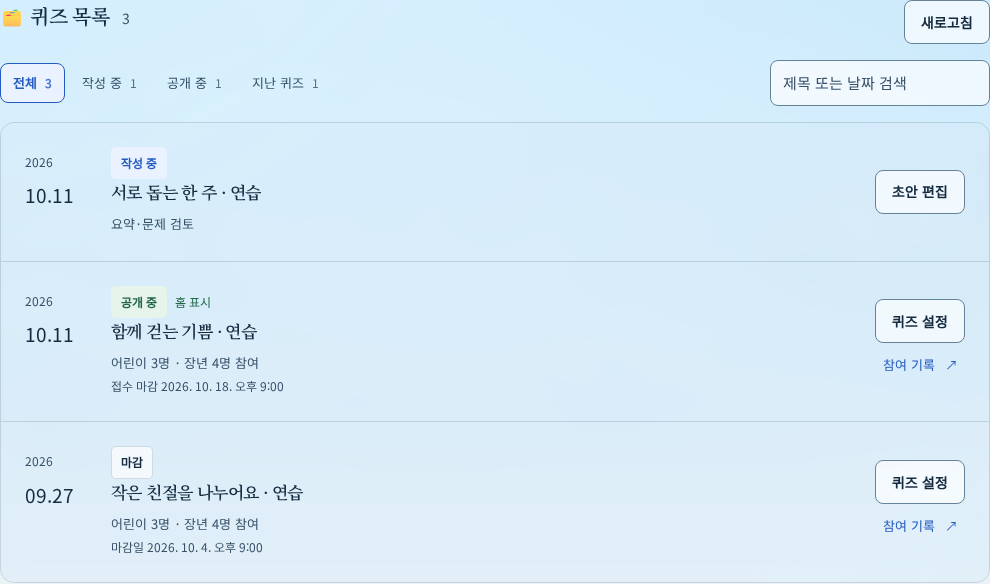
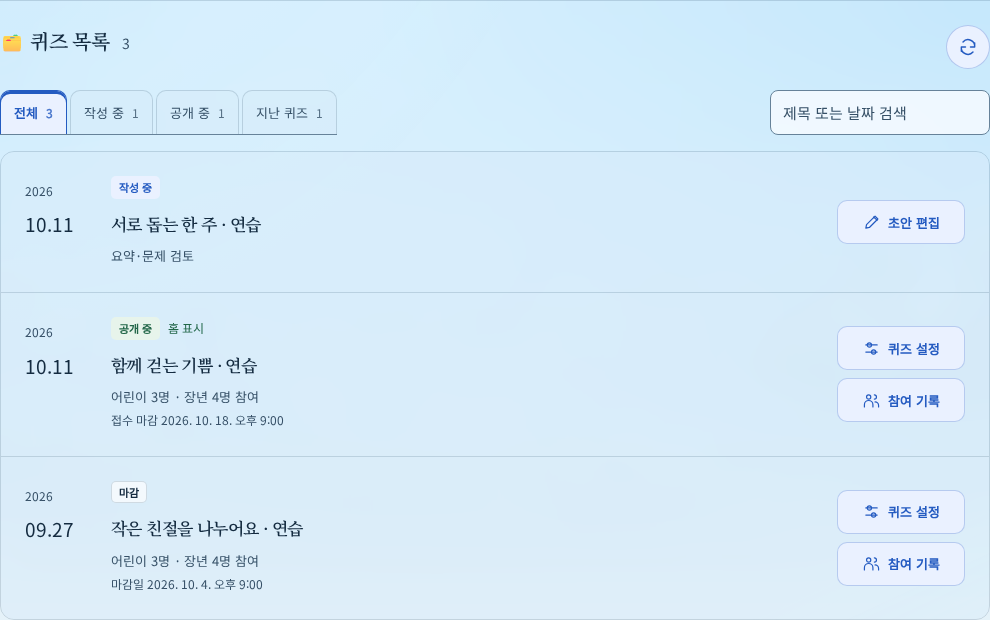
Polish admin quiz list and guide layout

diff --git a/src/features/admin-weekly/dashboard.module.css b/src/features/admin-weekly/dashboard.module.css
@@ -1,4 +1,4 @@
-.page { display: grid; gap: 28px; min-width: 0; }
+.page { display: grid; gap: 20px; min-width: 0; }
 .header, .sectionHeading { display: flex; align-items: center; justify-content: space-between; gap: 16px; }
 .header h2 { margin: 0 0 8px; }
 .header p, .featured p { margin: 0; color: var(--muted); }
@@ -35,7 +35,7 @@
 .date span { color: var(--muted); font-size: 12px; }
 .date strong { font-size: 19px; font-weight: 500; }
 .quizCopy { min-width: 0; }
-.quizCopy h4 { margin: 8px 0; }
+.quizCopy .badges + h4 { margin: 12px 0 8px !important; }
 .quizCopy p { margin: 0; font-size: 13px; color: var(--muted); }
 .quizCopy p + p { margin-top: 4px; }
 .badges { display: flex; flex-wrap: wrap; align-items: center; gap: 8px; }
@@ -43,8 +43,7 @@
 .status[data-state=published] { color: var(--accent); border-color: color-mix(in srgb,var(--accent) 35%,transparent); }
 .status[data-state=needs_revision] { color: var(--warning); }
 .homeBadge { color: var(--muted); font-size: 11px; }
-.rowActions { display: grid; justify-items: stretch; gap: 4px; }
-.textAction { display: inline-flex; align-items: center; justify-content: center; min-height: 36px; gap: 10px; color: var(--accent); font-size: 13px; text-underline-offset: 4px; }
+.rowActions { display: grid; justify-items: stretch; gap: 8px; }
 .empty { padding: 48px 20px; border: 1px dashed var(--control-border); border-radius: 14px; text-align: center; }
 .empty h4 { margin: 0 0 12px; }
 .empty p { color: var(--muted); margin-bottom: 20px; }
@@ -86,7 +85,7 @@
 .overview > :is(button,a):hover { box-shadow: inset 0 -3px currentColor; }
 .overview strong { font-size: 30px; }
 .homeMark { color: var(--ui-success); background: var(--ui-success-bg); border-color: transparent; }
-.status { font-size: 12px; font-weight: 600; padding: 4px 9px; }
+.status { font-size: 11px; line-height: 1.5; font-weight: 600; padding: 2px 7px; }
 .status[data-tone=success] { color: var(--ui-success); background: var(--ui-success-bg); border-color: transparent; }
 .status[data-tone=action] { color: var(--ui-action); background: var(--ui-action-bg); border-color: transparent; }
 .status[data-tone=attention] { color: var(--ui-attention); background: var(--ui-attention-bg); border-color: transparent; }
@@ -97,3 +96,21 @@
 .cleanup { padding-inline: 16px; border: 1px solid var(--ui-attention); border-radius: 10px; background: var(--ui-attention-bg); }
 .footer > a:first-child { color: var(--ui-guide); }
 @media (forced-colors: active) { .overview > :is(button,a), .status, .homeBadge, .homeMark { color: CanvasText; background: Canvas; } .filters button[aria-pressed=true] { color: Highlight; border-color: Highlight; } }
+
+/* Keep optional guidance together instead of stacking its margins with page gaps. */
+.quickHelp { display: grid; gap: 0; margin-block: -10px -8px; }
+.quickHelp > div { margin: 0; }
+.library { border-top: 1px solid var(--line); padding-top: 24px; }
+.caption { display: inline-flex; align-items: center; color: var(--ui-success); font-weight: 700; letter-spacing: .04em; }
+.page .library .sectionHeading .refresh:global(.action-button) { display: grid; place-items: center; width: 44px; height: 44px; min-width: 44px; padding: 0; border-radius: 50%; color: var(--ui-action); background: var(--ui-action-bg); border-color: color-mix(in srgb,var(--ui-action) 28%,transparent); }
+.page .library .rowActions .rowButton:global(.action-button) { min-width: 128px; border-radius: 10px; color: var(--ui-action); background: var(--ui-action-bg); border-color: color-mix(in srgb,var(--ui-action) 26%,transparent); font-size: 13px; transition: background-color .18s, border-color .18s; }
+.page .library .rowActions .rowButton:global(.action-button):is(:hover,:focus-visible), .page .library .sectionHeading .refresh:global(.action-button):is(:hover,:focus-visible) { background: color-mix(in srgb,var(--ui-action) 12%,var(--ui-action-bg)); border-color: var(--ui-action); }
+.rowButton svg { width: 17px; height: 17px; }
+.toolbar { align-items: end; gap: 16px; }
+.filters { gap: 3px; padding-top: 5px; border-bottom: 1px solid var(--control-border); }
+.filters button { position: relative; min-height: 44px; padding: 10px 13px 9px; border: 1px solid var(--line); border-bottom: 0; border-radius: 10px 10px 0 0; background: var(--glass-soft); transition: transform .18s ease-out, background-color .18s, border-color .18s; }
+.filters button:is(:hover,:focus-visible) { transform: translateY(-4px); background: var(--ui-action-bg); border-color: var(--ui-action); color: var(--ui-action); box-shadow: 0 4px 0 var(--ui-action-bg); }
+.filters button[aria-pressed=true] { background: var(--ui-action-bg); border-color: var(--ui-action); box-shadow: inset 0 3px var(--ui-action); }
+@media(max-width:760px) { .filters { width: 100%; display: grid; grid-template-columns: repeat(4,minmax(0,1fr)); gap: 2px; } .filters button { justify-content: center; gap: 4px; padding-inline: 3px; font-size: 12px; } .rowActions { gap: 8px; } }
+@media(prefers-reduced-motion:reduce) { .filters button, .page .library .rowActions .rowButton:global(.action-button) { transition: none; } .filters button:is(:hover,:focus-visible) { transform: none; } }
+@media(forced-colors:active) { .page .library .rowActions .rowButton:global(.action-button), .page .library .sectionHeading .refresh:global(.action-button) { color: ButtonText; border-color: ButtonText; background: ButtonFace; } .filters button[aria-pressed=true] { border-color: Highlight; outline: 2px solid Highlight; outline-offset: -2px; } }

diff --git a/tests/e2e/admin-glass.spec.ts b/tests/e2e/admin-glass.spec.ts
@@ -3,7 +3,7 @@ import { expect, test } from "@playwright/test";
 import { publicResponse } from "../fixtures/public-response";
 
 const at = "2026-10-10T00:00:00.000Z";
-test("admin menus group tasks, retain the glass hover and use compact shared actions", async ({ page, isMobile }, info) => {
+test("admin menus group tasks, use a flat moving highlight and use compact shared actions", async ({ page, isMobile }, info) => {
   test.setTimeout(60_000);
   const requests: string[] = [];
   await page.route("**/api/admin/**", route => {
@@ -20,17 +20,15 @@ test("admin menus group tasks, retain the glass hover and use compact shared act
   const solution = page.getByRole("button", { name: "정답보기", exact: true });
   await expect(solution).toHaveAttribute("aria-disabled", "false");
   await page.getByRole("button", { name: "낮", exact: true }).click();
-  const material = await solution.evaluate(node => {
-    const style = getComputedStyle(node);
-    return Object.fromEntries(["background-color", "color", "border-color", "border-radius", "box-shadow", "backdrop-filter"].map(name => [name, style.getPropertyValue(name)]));
-  });
   await page.goto("/admin");
   const refresh = page.getByRole("button", { name: "운영 상태 새로고침", exact: true });
   await expect(refresh).toBeEnabled();
   const before = requests.filter(path => path.endsWith("/dashboard")).length;
   await refresh.click();
   await expect.poll(() => requests.filter(path => path.endsWith("/dashboard")).length).toBeGreaterThan(before);
-  for (const [name, value] of Object.entries(material)) await expect(refresh).toHaveCSS(name, value);
+  await expect(refresh).toHaveCSS("border-radius", "50%");
+  await expect(refresh.locator("svg")).toHaveCount(1);
+  await expect(refresh).toHaveText("");
   await expect(refresh).toHaveCSS("min-height", "44px");
   expect(await refresh.evaluate(node => getComputedStyle(node, "::before").content)).toBe("none");
   await expect(refresh).not.toHaveAttribute("data-lens-ready");
@@ -57,23 +55,22 @@ test("admin menus group tasks, retain the glass hover and use compact shared act
   await expect(navigation.getByRole("link")).toHaveCount(7);
   if (!isMobile) {
     const target=navigation.getByRole("link",{name:"이름·문구 필터",exact:true});
-    // Opening the disclosure remounts GlassMenu; its ResizeObserver/font pass
-    // measures on the next frame and clears previews. Hover after that pass.
-    await expect(target.locator("..")).toHaveAttribute("data-selection-ready", "true");
-    await page.evaluate(async () => {
-      await document.fonts.ready;
-      await new Promise<void>(resolve => requestAnimationFrame(() => requestAnimationFrame(() => resolve())));
-    });
     const current = navigation.getByRole("link", {name:"퀴즈 관리",exact:true});
-    const selection = await current.evaluate(node => ({color:getComputedStyle(node).color, background:getComputedStyle(node).backgroundColor}));
+    const highlight = navigation.locator(':scope > span[aria-hidden="true"]');
+    await expect(highlight).toBeVisible();
     await target.hover();
-    // Hover previews must not erase the actual current page's semantic highlight.
-    await expect(current).toHaveCSS("color", selection.color);
-    await expect(current).toHaveCSS("background-color", selection.background);
-    expect(await current.evaluate(node => getComputedStyle(node, "::before").width)).toBe("3px");
-    await expect(target).toHaveAttribute("data-dock-preview", "");
-    await expect(target).toHaveCSS("background-color", "rgba(0, 0, 0, 0)");
-    await expect(target.locator("..").locator(":scope > .glass-indicator")).toHaveCount(1);
+    await expect(current).toHaveAttribute("aria-current", "page");
+    await expect(navigation.locator('.glass-indicator, [data-glass-convex]')).toHaveCount(0);
+    await expect(highlight).toHaveCSS("border-left-width", "3px");
+    await expect.poll(async () => {
+      const a = await target.boundingBox(), b = await highlight.boundingBox();
+      return a && b ? Math.abs(a.y - b.y) : 999;
+    }).toBeLessThan(1);
+    await page.locator('.admin-main h2').hover();
+    await expect.poll(async () => {
+      const a = await current.boundingBox(), b = await highlight.boundingBox();
+      return a && b ? Math.abs(a.y - b.y) : 999;
+    }).toBeLessThan(1);
   }
   await sidebar.screenshot({path:info.outputPath("sidebar-grouped.png")});
   const filterLink=navigation.getByRole("link",{name:"이름·문구 필터",exact:true});

diff --git a/src/features/admin-weekly/AdminNavigation.tsx b/src/features/admin-weekly/AdminNavigation.tsx
@@ -1,8 +1,7 @@
-import { useEffect, useState } from "react";
+import { useEffect, useLayoutEffect, useRef, useState } from "react";
 import { Link, useLocation } from "react-router-dom";
 import type { AdminTone } from "../../config/admin-help";
 import { AdminIcon, type AdminIconName } from "../../components/AdminIcon";
-import { GlassMenu } from "../../components/glass/GlassMenu";
 import { GlassPanel } from "../../components/glass/GlassPanel";
 import styles from "./admin-navigation.module.css";
 
@@ -20,6 +19,16 @@ const secondary = [
 
 export function AdminNavigation() {
   const { pathname } = useLocation();
+  const navigation = useRef<HTMLElement>(null);
+  const [highlight, setHighlight] = useState<{x:number; y:number; width:number; height:number} | null>(null);
+  function showHighlight(link: HTMLElement | null) {
+    const nav = navigation.current;
+    if (!nav || !link) { setHighlight(null); return; }
+    const parent = nav.getBoundingClientRect(), box = link.getBoundingClientRect();
+    setHighlight({x:box.left-parent.left, y:box.top-parent.top, width:box.width, height:box.height});
+  }
+  function restoreHighlight() { showHighlight(navigation.current?.querySelector<HTMLElement>('a[aria-current="page"]') ?? null); }
+
   const [wide, setWide] = useState(() => window.matchMedia("(min-width: 1024px)").matches);
   const [expanded, setExpanded] = useState(false);
   const settingsActive = secondary.some(item => pathname.startsWith(item.to));
@@ -31,6 +40,19 @@ export function AdminNavigation() {
     media.addEventListener("change", update);
     return () => media.removeEventListener("change", update);
   }, []);
+  useLayoutEffect(() => {
+    const nav = navigation.current;
+    if (!nav) return;
+    const update = () => {
+      const activeLink = nav.querySelector<HTMLElement>('a[aria-current="page"]');
+      if (!activeLink || !activeLink.getClientRects().length) { setHighlight(null); return; }
+      const parent = nav.getBoundingClientRect(), box = activeLink.getBoundingClientRect();
+      setHighlight({x:box.left-parent.left,y:box.top-parent.top,width:box.width,height:box.height});
+    };
+    update();
+    const observer = new ResizeObserver(update); observer.observe(nav);
+    return () => observer.disconnect();
+  }, [pathname, settingsOpen, wide, expanded]);
   const active = (to: string) => to === "/admin"
     ? pathname === to || pathname === "/admin/new" || pathname.startsWith("/admin/quiz/")
     : pathname.startsWith(to);
@@ -44,12 +66,17 @@ export function AdminNavigation() {
     <h2 className={styles.title}><span>관리 공간</span></h2>
     <details className={styles.menu} open={wide || expanded}>
       <summary onClick={event => { event.preventDefault(); setExpanded(!expanded); }}>관리자 운영 메뉴 <AdminIcon name="chevron"/></summary>
-      <nav aria-label="관리자 운영 메뉴">
+      <nav ref={navigation} aria-label="관리자 운영 메뉴"
+        onPointerOver={event => { if (event.pointerType !== "touch") { const link = (event.target as HTMLElement).closest('a'); if (link) showHighlight(link); } }}
+        onPointerLeave={restoreHighlight}
+        onFocus={event => { const link = (event.target as HTMLElement).closest('a'); if (link) showHighlight(link); }}
+        onBlur={event => { if (!event.currentTarget.contains(event.relatedTarget as Node | null)) restoreHighlight(); }}>
+        {highlight && <span className={styles.highlight} aria-hidden="true" style={{transform:`translate(${highlight.x}px, ${highlight.y}px)`,width:highlight.width,height:highlight.height}}/>}
         <h3 className={styles.groupTitle}>퀴즈 운영</h3>
-        <GlassMenu clear={false} data-glass-hover-only={primary.some(item => active(item.to)) ? undefined : ""} structure={pathname} className={styles.nav}>{links(primary)}</GlassMenu>
+        <div className={styles.nav}>{links(primary)}</div>
         <details className={styles.settings} open={settingsOpen} onToggle={event => setSettings({path: pathname, open: event.currentTarget.open})}>
           <summary>도구와 설정 <AdminIcon name="chevron"/></summary>
-          <GlassMenu clear={false} data-glass-hover-only={settingsActive ? undefined : ""} structure={`${pathname}:${settingsOpen}`} className={styles.nav}>{links(secondary)}</GlassMenu>
+          <div className={styles.nav}>{links(secondary)}</div>
         </details>
       </nav>
     </details>

diff --git a/src/features/admin-weekly/Dashboard.tsx b/src/features/admin-weekly/Dashboard.tsx
@@ -1,4 +1,5 @@
 import { AdminConcepts, AdminEmoji, AdminLabel } from "../../components/AdminHelp";
+import { AdminIcon } from "../../components/AdminIcon";
 import { AdminScreenshots } from "../../components/AdminScreenshots";
 import { useEffect, useState } from "react";
 import { Link } from "react-router-dom";
@@ -51,8 +52,8 @@ export function Component() {
       <div><h2><AdminLabel text="퀴즈 관리"/></h2><p>퀴즈를 준비하고, 공개와 참여를 관리하세요.</p></div>
       <ButtonLink variant="primary" to="/admin/new">퀴즈 준비 <span aria-hidden="true">＋</span></ButtonLink>
     </header>
-    <AdminConcepts terms={["초안", "발행", "자동 선택", "대표 지정"]}/>
-    <AdminScreenshots ids={["dashboard"]} compact/>
+    <div className={styles.quickHelp}><AdminConcepts terms={["초안", "발행", "자동 선택", "대표 지정"]}/>
+    <AdminScreenshots ids={["dashboard"]} compact/></div>
     {message && <p className={styles.alert} role="alert">{message}</p>}
     <div className={styles.overview} aria-label="운영 요약">
       <button type="button" onClick={() => setFilter("published")}><span><AdminEmoji>📣</AdminEmoji>공개 중</span><strong>{data ? published.length : "—"}</strong><span aria-hidden="true">↗</span></button>
@@ -61,7 +62,7 @@ export function Component() {
     </div>
     {data && <section className={styles.featured} aria-labelledby="home-quiz-heading">
       <div className={styles.homeMark} aria-hidden="true">⌂</div>
-      <div className={styles.featuredCopy}><span className={styles.caption}>지금 홈에 보이는 퀴즈</span>
+      <div className={styles.featuredCopy}><span className={styles.caption}><AdminEmoji>📡</AdminEmoji>Live</span>
         <h3 id="home-quiz-heading">{featured?.title ?? "아직 공개된 퀴즈가 없습니다"}</h3>
         <p>{featured ? `${date(featured.sermonDate)} · ${featured.status === "archived" ? "지난 퀴즈" : "공개 중"}${data.homeQuiz?.selection === "automatic" ? " · 자동 선택" : " · 대표 지정"}` : "준비한 퀴즈를 발행하면 이곳에 표시됩니다."}</p>
       </div>
@@ -69,7 +70,7 @@ export function Component() {
     </section>}
     <section className={styles.library} aria-labelledby="quiz-library-heading" aria-busy={loading}>
       <div className={styles.sectionHeading}><h3 id="quiz-library-heading"><AdminLabel text="퀴즈 목록"/> <span>{items.length}</span></h3>
-        <Button type="button" disabled={loading} onClick={() => { setMessage(""); setLoading(true); setAttempt(v => v + 1); }} aria-label="운영 상태 새로고침">{loading ? "불러오는 중" : "새로고침"}</Button>
+        <Button type="button" disabled={loading} onClick={() => { setMessage(""); setLoading(true); setAttempt(v => v + 1); }} className={styles.refresh} aria-label="운영 상태 새로고침" title="퀴즈 목록 새로고침"><AdminIcon name="refresh"/></Button>
       </div>
       <div className={styles.toolbar}>
         <div className={styles.filters} role="group" aria-label="퀴즈 상태">
@@ -87,8 +88,8 @@ export function Component() {
               {!isDraft(q) && q.closesAt && <p className={styles.deadline}>{q.status === "archived" ? "마감일" : "접수 마감"} {time(q.closesAt)}{q.status === "published" && Date.parse(q.closesAt) <= checkedAt ? " · 마감 처리 대기" : ""}</p>}
             </div>
             <div className={styles.rowActions}>
-              {!q.expired && <ButtonLink to={`/admin/quiz/${q.quizSetId}`}>{isDraft(q) ? "초안 편집" : "퀴즈 설정"}</ButtonLink>}
-              {!isDraft(q) && <Link className={styles.textAction} to={`/admin/submissions?quiz=${q.quizSetId}`}>참여 기록 <span aria-hidden="true">↗</span></Link>}
+              {!q.expired && <ButtonLink className={styles.rowButton} to={`/admin/quiz/${q.quizSetId}`}><AdminIcon name={isDraft(q) ? "edit" : "settings"}/>{isDraft(q) ? "초안 편집" : "퀴즈 설정"}</ButtonLink>}
+              {!isDraft(q) && <ButtonLink className={styles.rowButton} to={`/admin/submissions?quiz=${q.quizSetId}`}><AdminIcon name="people"/>참여 기록</ButtonLink>}
             </div>
           </article>
         </li>)}</ul>}

diff --git a/src/features/admin-weekly/admin-navigation.module.css b/src/features/admin-weekly/admin-navigation.module.css
@@ -11,12 +11,13 @@
 .nav { display: grid; gap: 4px; border: 0; background: transparent; padding: 0; }
 .nav a { display: flex; align-items: center; gap: 12px; min-height: 46px; padding: 11px 13px; border: 0; border-radius: 8px; color: var(--ink); font-size: 14px; line-height: 1.5; text-decoration: none; word-break: keep-all; overflow-wrap: anywhere; }
 .nav svg { width: 20px; height: 20px; flex: 0 0 20px; }
-/* Keep the current page visible while the existing glass lens previews another link. */
-.sidebar .nav a[aria-current=page], .sidebar .nav[data-selection-ready] a[aria-current=page] { color: var(--ui-action); background: var(--ui-action-bg); font-weight: 700; }
-.nav a[aria-current=page]::before { content: ''; position: absolute; inset: 7px auto 7px 0; width: 3px; border-radius: 2px; background: var(--ui-action); }
-.sidebar .nav[data-dock-previewing] a[aria-current=page]::after { display: none; }
-.sidebar .nav:not([data-dock-previewing]) > :global(.glass-indicator) { opacity: 0; }
-.nav:not([data-dock-material=convex]) a:not([aria-current=page]):hover { background: var(--glass-soft); }
+/* A flat selection shape follows the pointer or keyboard focus without a glass lens. */
+.menu nav { position: relative; isolation: isolate; }
+.highlight { position: absolute; top: 0; left: 0; pointer-events: none; z-index: -1; border-radius: 8px; background: var(--ui-action-bg); border-left: 3px solid var(--ui-action); transition: transform .2s ease-out, width .2s ease-out, height .2s ease-out; }
+.nav a { position: relative; }
+.sidebar .nav a[aria-current=page] { color: var(--ui-action); font-weight: 700; }
+.nav a:is(:hover,:focus-visible) { color: var(--ui-action); }
+@media (prefers-reduced-motion: reduce) { .highlight { transition: none; } }
 .settings { border-top: 1px solid var(--line); margin-top: 20px; padding-top: 12px; }
 .settings > summary { color: var(--ui-action); font-size: 13px; font-weight: 700; padding: 8px 14px; margin-bottom: 6px; }
 .settings > summary svg { color: var(--muted); }
@@ -42,6 +43,6 @@
 @media (max-width: 500px) { .nav { grid-template-columns: 1fr; } .nav a { min-height: 44px; } }
 @media (forced-colors: active) {
  .sidebar .nav a[aria-current=page] { color: Highlight; background: Canvas; outline: 2px solid Highlight; outline-offset: -2px; }
- .nav a[aria-current=page]::before { background: Highlight; forced-color-adjust: none; }
+ .highlight { background: Canvas; border: 2px solid Highlight; }
  .sidebar .groupTitle, .settings > summary { color: CanvasText; }
 }

diff --git a/src/features/admin-operations/ManualReader.tsx b/src/features/admin-operations/ManualReader.tsx
@@ -1,3 +1,4 @@
+import { Link } from "react-router-dom";
 import type { AdminTone } from "../../config/admin-help";
 import { ServiceIcon } from "../../components/ServiceIcon";
 import { AdminLabel, GuideText } from "../../components/AdminHelp";
@@ -83,11 +84,12 @@ export function ManualReader({ source }: { source: string }) {
       <select value={current.id} onChange={event => choose(event.target.value)}>{groups.map(group => <optgroup key={group.title} label={group.title}>{group.items.map(item => <option key={item.id} value={item.id}>{item.title}</option>)}</optgroup>)}</select>
     </label>
     <article className={css.article} data-topic={current.id} aria-labelledby="manual-article-title">
-      <header className={css.articleHeader} data-admin-tone={topicTones[current.id] ?? "guide"}><p>{category}</p><h3 id="manual-article-title" tabIndex={-1} ref={heading}>{service && <TopicIcon id={current.id}/>}<span><AdminLabel text={section?.title ?? service?.name ?? "운영 안내"}/></span></h3>{service && <p className={css.subtitle}>{service.plainLanguageName}</p>}</header>
+      <header className={css.articleHeader} data-admin-tone={topicTones[current.id] ?? "guide"}><p>{category}</p><h3 id="manual-article-title" tabIndex={-1} ref={heading}>{service && <TopicIcon id={current.id}/>}<span><AdminLabel text={section?.title ?? service?.name ?? "운영 안내"}/></span></h3>{service && <p className={css.subtitle}><code>{service.plainLanguageName}</code></p>}</header>
       {section && <ManualBody source={section.body}/>}
+      {current.id === "guide-12" && <div className={css.futureRecord}><AdminIcon name="document" tone="action"/><div><Link to="/admin/manual/future/member-auth">기능 검토 기록</Link><p>회원 로그인 등 제안된 기능의 검토 내용을 읽어 보세요.</p></div></div>}
       {section && examples[current.id] && <AdminScreenshots key={current.id} ids={examples[current.id]!}/>}
       {service && guide && <div className={css.serviceReading}>
-        <p className={css.lead}>{guide.role}</p>
+        <aside className={css.serviceIntro} aria-label="서비스 설명"><AdminIcon name="book" tone="action"/><p className={css.lead}>{guide.role}</p></aside>
         <dl className={local.guideFacts}>
           <div data-admin-tone="action"><dt><AdminLabel text="언제 쓰나요?"/></dt><dd><GuideText text={guide.when}/></dd></div>
           <div data-admin-tone="danger"><dt><AdminLabel text="문제가 생기면?"/></dt><dd><GuideText text={guide.failure}/></dd></div>

diff --git a/tests/e2e/admin-operations.spec.ts b/tests/e2e/admin-operations.spec.ts
@@ -23,10 +23,14 @@ test('operations warning survives monthly confirmation; drawer supports keyboard
  await page.keyboard.press('Escape');await expect(dialog).not.toBeVisible();await expect(page.getByRole('button',{name:'비용·백업 상세 열기'})).toBeFocused();
 });
 test('protected manual displays service dictionary, repository text and future guide without executing HTML',async({page})=>{
- await page.route('**/api/admin/manual**',async route=>route.fulfill({json:{data:{markdown:'# 합성 매뉴얼\n\n## 10. 백업·복구\n\n<svg onload="window.__unsafe=true">원문</svg>',updatedAt:'2026-10-01',verification:'로컬 합성 검증',deployment:'local'}}}));
+ await page.route('**/api/admin/manual**',async route=>route.fulfill({json:{data:{markdown:'# 합성 매뉴얼\n\n## 10. 백업·복구\n\n<svg onload="window.__unsafe=true">원문</svg>\n\n## 12. 향후 기능\n\n기능 제안을 검토합니다.',updatedAt:'2026-10-01',verification:'로컬 합성 검증',deployment:'local'}}}));
  await page.goto('/admin/manual');await expect(page.getByRole('heading',{name:'백업·복구',exact:true})).toBeVisible();
  await expect(page.getByText('<svg onload="window.__unsafe=true">원문</svg>',{exact:true})).toBeVisible();expect(await page.evaluate(()=>Object.hasOwn(window,'__unsafe'))).toBe(false);
- await expect(page.getByRole('heading',{name:'백업·복구',exact:true})).toBeVisible();await page.getByRole('link',{name:'기능 검토 기록'}).click();await expect(page).toHaveURL(/\/admin\/manual\/future\/member-auth$/u);await expect(page.getByRole('link',{name:'운영 매뉴얼로 돌아가기'})).toBeVisible();
+ await expect(page.getByRole('link',{name:'기능 검토 기록'})).toHaveCount(0);
+ const topics=page.getByLabel('읽을 주제');
+ if(await topics.isVisible()) await topics.selectOption('guide-12');
+ else { const nav=page.getByRole('navigation',{name:'매뉴얼 주제'}); const future=nav.getByRole('button',{name:'향후 기능',exact:true}); if(!await future.isVisible()) await nav.locator('summary').filter({hasText:'설정과 자료 보호'}).click(); await future.click(); }
+ await page.getByRole('article').getByRole('link',{name:'기능 검토 기록'}).click();await expect(page).toHaveURL(/\/admin\/manual\/future\/member-auth$/u);await expect(page.getByRole('link',{name:'운영 매뉴얼로 돌아가기'})).toBeVisible();
 });
 
 test('manual formats reading cues, explains services and retries only after a failed load', async ({page}) => {

diff --git a/src/features/admin-operations/manual-reader.module.css b/src/features/admin-operations/manual-reader.module.css
@@ -70,3 +70,16 @@
 
 .serviceReading > dl > div > dt { font-size: 18px; font-weight: 700; line-height: 1.65; }
 @media (max-width: 760px) { .serviceReading > dl > div > dt { font-size: 17px; } }
+
+.serviceIntro { display: flex; gap: 12px; align-items: flex-start; padding: 16px 18px; border: 1px solid color-mix(in srgb,var(--ui-action) 30%,var(--line)); border-left: 3px solid var(--ui-action); border-radius: 8px; background: var(--ui-action-bg); }
+.serviceIntro > svg { flex: 0 0 20px; margin-top: 5px; }
+.serviceReading > dl > div { padding-block: 22px; }
+.serviceReading > dl > div + div { border-top: 1px solid var(--line); }
+.serviceReading > dl > div:first-child { padding-top: 0; }
+.serviceReading > dl > div:last-child { padding-bottom: 0; }
+.serviceReading > dl { gap: 0; }
+.futureRecord { display: flex; gap: 12px; padding-top: 22px; margin-top: 22px; border-top: 1px solid var(--line); }
+.futureRecord > svg { flex-shrink: 0; margin-top: 4px; }
+.futureRecord a { font-weight: 700; }
+.futureRecord p { color: var(--muted); font-size: 13px; margin: 6px 0 0; }
+@media (forced-colors:active) { .serviceIntro { border-color: CanvasText; background: Canvas; } }

diff --git a/src/components/admin-screenshots.module.css b/src/components/admin-screenshots.module.css
@@ -1,6 +1,7 @@
-.examples, .disclosure { margin: 22px 0; min-width: 0; }
+.examples { margin: 22px 0; min-width: 0; }
+.disclosure { margin: 0; min-width: 0; }
 .examples { padding-top: 20px; border-top: 1px solid var(--line); }
-.disclosure > summary { color: var(--ui-guide); font-size: 14px; min-height: 44px; align-content: center; }
+.disclosure > summary { color: var(--ink); font-size: 14px; min-height: 44px; align-content: center; }
 .note.note { color: var(--muted); font-size: 12px; margin: 8px 0 14px; }
 .gallery { display: grid; grid-template-columns: repeat(auto-fit, minmax(min(100%, 260px), 1fr)); gap: 24px; }
 .figure { min-width: 0; max-width: 360px; margin: 0; }

diff --git a/src/features/admin-operations/Manual.tsx b/src/features/admin-operations/Manual.tsx
@@ -38,6 +38,6 @@ function ManualPage({ future }: { future: boolean }) {
         <div><dt>접속한 서버</dt><dd>{data.deployment.includes("미연결") ? "이 화면에서는 서버 종류 또는 배포 번호를 확인할 수 없습니다. 로컬 실행에서도 이렇게 표시될 수 있으며, 서비스 장애를 뜻하지는 않습니다." : data.deployment}</dd></div>
       </dl>
     </details>}
-    {future ? <Link to="/admin/manual">운영 매뉴얼로 돌아가기</Link> : <Link to="/admin/manual/future/member-auth">기능 검토 기록</Link>}
+    {future && <Link to="/admin/manual">운영 매뉴얼로 돌아가기</Link>}
   </div>;
 }

diff --git a/src/components/AdminIcon.tsx b/src/components/AdminIcon.tsx
@@ -3,6 +3,8 @@ import type { AdminTone } from "../config/admin-help";
 
 // Shared line icons extend the existing admin navigation's stroke and proportions.
 const shapes = {
+  refresh: <path d="M20 7v5h-5 M4 17v-5h5 M6 6a8 8 0 0 1 14 6 M4 12a8 8 0 0 0 14 6"/>,
+  settings: <><path d="M4 7h16 M4 17h16"/><circle cx="9" cy="7" r="3"/><circle cx="15" cy="17" r="3"/></>,
   document: <path d="M4 3h12l4 4v14H4z M16 3v5h4 M8 12h8 M8 16h5"/>,
   people: <><circle cx="8" cy="7" r="3"/><path d="M2 21v-3a6 6 0 0 1 12 0v3 M16 4a3 3 0 0 1 0 6 M17 14a5 5 0 0 1 5 5v2"/></>,
   message: <path d="M4 4h16v12H9l-5 4z M8 8h8 M8 12h5"/>,

diff --git a/docs/HANDOFF.md b/docs/HANDOFF.md
@@ -2,32 +2,32 @@
 
 ## 현재 작업과 Git
 
-**P9-23 관리자 제목·이모지 가독성 보완 — 로컬 완료.** main `51fa60d` / clean에서 서비스 사전의 세 제목을 키우고 관리자 소제목 전반의 이모지를 보완했다. 로컬 커밋 제목은 `Improve admin section headings and emoji cues`다. 경로는 `/home/onegem/work/bibleQuiz`; 정확한 해시와 잔여 변경은 `git log -1`·`git status --short`로 확인한다. 문구·입력/실제 자료·원격 버전은 유지한다. push/배포는 없다.
+**P9-23 퀴즈 목록·사이드바·서비스 구획 보완 — 로컬 완료.** main `d049402` / clean에서 사용자 후속 요청을 반영했다. 로컬 커밋 제목은 `Polish admin quiz list and guide layout`다. 경로는 `/home/onegem/work/bibleQuiz`; 정확한 해시와 잔여 변경은 `git log -1`·`git status --short`로 확인한다. 실제 자료·원격 버전은 유지하며 push/배포는 없다.
 
 다음은 사용자 로컬 화면 확인/피드백이다. 새 구현 ID나 원격 반영 승인을 만들지 않는다. [P9-23 후속 기록](work/P9-23.md#문구의미-색상공식-아이콘-후속-보정)에 실제 범위·검사 명령·초기 실패/보정과 한계를 모았다. P9-22 시안 적용 완료는 유지된다.
 
 ## 변경과 보존
 
-- 최신 보완: 서비스 사전의 세 제목은 PC18px/모바일17px 굵은 글씨와 사용/문제/확인 이모지다. 오류/월간 비용/백업 소제목, 관리자 원문·검토·비용·참여 관리·사용 순서에도 의미별 장식 이모지를 연결했다. `AdminLabel`/`AdminEmoji`를 재사용하고 원문·입력·접근성 이름은 보존한다. 직전 오류/월간 비용의 구분선과 여백은 유지한다.
+- 최신 보완: 퀴즈 관리 안내 여백 축소·중립 화면 예시 제목, 📡 Live·목록 위 구분선·원형44px 새로고침, 파일 인덱스형 상태 버튼/호버·11px 상태 표지/제목까지12px 간격·통일된 편집/설정/참여 버튼. 관리자 사이드바는 유리 렌즈를 제거하고 평평한 배경/왼쪽 표시가200ms로 호버·초점을 따라 이동하며 벗어나면 현재 메뉴로 돌아간다. 감소 모션에서는 즉시 이동한다. 기능 검토 기록은 설정과 자료 보호 → 향후 기능 본문으로 옮겼다. 서비스 사전은 짧은 역할 문구의 인라인 코드, 소개 콜아웃, 세 설명 구분선/22px 여백을 사용한다.
 
 - 관리자 메뉴·제작 6단계·발행/수정 도구·참여/문의/필터/비용, 매뉴얼14주제·서비스10종·기능 검토 기록의 문구를 검토했다. ‘설교 자료’, ‘발행 취소’, ‘예상 비용’, ‘다시 공개’ 등으로 통일하고 어려운 안내를 목적/결과 중심으로 고쳤다. 실제 입력·설교/참여자 데이터·API/DB 정책·기술 식별자·가격 수치/확인일은 보존한다.
 - 사이트 소개의 부자연스러운 개행은 `<br>`가 아닌 `ManualText`의 여러 단어를 묶는 `nowrap` 때문이었다. 이를 제거했다. 관리자 한글 단어를 유지하고 말풍선 용어의 바로 붙은 조사/어미만 함께 표시한다. 매뉴얼/기능 검토 기록의 Worker 사본도 동기화했다.
 - `admin-help.ts`, `AdminHelp`/CSS, `AdminGuide`, `ManualReader`/CSS, `interior.css`:32개 개념·단계·목차·관리 메뉴 아이콘에 문맥별 다섯 의미 색상을 적용한다. 목차 호버는 진한 받침·테두리·왼쪽 표시, 말풍선은 중립 바탕·의미색 윗선/범주/꼬리다. 위쪽 우선/공간 부족 시 아래와 포인터·키보드·터치·Escape/초점 동작을 보존한다.
 - `ServiceIcon`/CSS와 `public/images/services/`: OpenAI·Cloudflare·GitHub 공식 회사 로고 원본. 색/모양을 바꾸지 않고 밝은 받침을 사용한다. [출처·해시](../public/images/services/README.md). Cloudflare 서비스들은 같은 회사 로고, 서비스 주소는 지구본이다.
 - `ThemeControl`의 수평 바닥선·세 수직선 형태는 그대로, stroke1.8→1.35px. 새 의존성·외부 서비스·새 이미지 생성은 없다. 기존 두 시안을 재사용해 실제 UI와 대조했다.
-- 설명용 PNG8종을 최종 UI/문구로 재캡처했다(614,122bytes). 합성 연습 자료만 사용했고 현재 운영 자료/상태가 아니다. 확대·원본 크기·Tab 순환·닫기/초점 복귀를 유지한다. 글꼴은 캡처 메모리에 기존 Windows Segoe UI Emoji만 읽었으며 배포하지 않는다.
+- 설명용 PNG8종을 보존하며 이번에는 목록1종만 최종 UI로 재캡처했다. 현재 크기는 [자산 기록](design/phase-9/admin-guide/README.md)을 따른다. 합성 연습 자료만 사용했고 현재 운영 자료/상태가 아니다. 확대·원본 크기·Tab 순환·닫기/초점 복귀를 유지한다. 글꼴은 캡처 메모리에 기존 Windows Segoe UI Emoji만 읽었으며 배포하지 않는다.
 
 ## 검사 결과와 한계
 
-이번 제목 보정은 관련 Chromium PC/모바일44항목 중42통과·2실패였으며 이모지를 포함하지 않는 제목 문자열을 찾던 선택 조건을 정의 제목 범위로 고친 뒤 해당2건이 통과했다. 목록 숫자용 CSS의 이모지 글꼴 덮어쓰기와 조건부 문의/편집 제목을 추가 보완한 뒤 관련6건도 통과했다. lint/typecheck 통과. 실제5173 네 시간대 PC1440/모바일390의 오류/서비스16상태,24개 주제/서비스320px에서 크기/이모지·넘침0·pageerror0·API 쓰기0을 확인했다. 실제 캡처를 직접 열었다. 설명용 PNG8종도 현재 UI로 다시 촬영했다(캡처1건 통과). 8개 HTTP200·image/png·로컬 파일 일치를 확인했다. 상세 로그는 `.wrangler/releases/p9-23/emoji-*`이며 앞선 전체 관리자 검사와 최초 실패 기록은 [작업 문서](work/P9-23.md)에 보존한다.
+관련 Chromium PC/모바일48항목은46통과·2실패 후, 원형 버튼을 덮던 공통 CSS와 합성 매뉴얼의 단일 그룹에 summary가 있다고 가정한 검사를 보정했다. 관련4건 PC/모바일 재검사 통과. 최종 lint/typecheck 통과. 실제5173 네 시간대 PC1440/모바일390 목록·서비스16상태와320px 서비스10종, 원형 버튼·탭 호버/감소 모션·기능 검토 링크를 확인했다. 가로 넘침/pageerror/API 쓰기0. 목록 예시 캡처1건 통과 및 HTTP200·PNG·로컬 바이트 일치. 실제 캡처를 열어 대조했다. 상세 로그는 `.wrangler/releases/p9-23/layout-*`이며 최초 실패와 추가 확인 스크립트의 선택/대기 보정은 [작업 문서](work/P9-23.md#퀴즈-목록사이드바서비스-구획-보정)에 남긴다.
 
-이번 변경은 제목 표시와 CSS이며 build/전체 `pnpm check`/전체 E2E는 반복하지 않았다. WebKit의 기존 OS 라이브러리 누락은 미해결 상태로 Safari·실기기·화면 읽기 프로그램·Windows 사용자 화면의 직접 표시·원격 인증은 미검증이다. 기존 router hash 이동/fontkit 번들 경고도 유지한다.
+이번 변경은 한정된 UI 보정이며 build/전체 `pnpm check`/전체 E2E는 반복하지 않았다. WebKit의 기존 OS 라이브러리 누락은 미해결 상태로 Safari·실기기·화면 읽기 프로그램·Windows 사용자 화면의 직접 표시·원격 인증은 미검증이다. 기존 router hash 이동/fontkit 번들 경고도 유지한다.
 
 ## 화면·서버·실행
 
 - 실제 매뉴얼: http://localhost:5173/admin/manual
 - 퀴즈 관리: http://localhost:5173/admin
-- 갱신 검수 예시 PNG: http://localhost:5173/images/admin-guide/review.png
+- 갱신 검수 예시 PNG: http://localhost:5173/images/admin-guide/dashboard.png
 - 다섯 의미 색상 비교: http://localhost:5173/docs/design/phase-9/admin-sidebar/palette
 - 기존 시안: http://localhost:5173/docs/design/phase-9/manual-reader/reference.png 및 http://localhost:5173/docs/design/phase-9/admin-sidebar/reference.png
 
@@ -35,7 +35,7 @@
 
 검증된 명령 경로: `/bin/bash`, `login:false`, 명시 workdir, `require_escalated` 승인 검토 실행. `codex-exec-recovery`에 따라 인계의 정상 경로를 재사용했다. 기본 exec 시작 전 ENOENT와 Node 도구의 WSL cwd URI 문제를 WSL 단절로 오해하거나 승인 거부를 우회하지 않는다. WebKit의 OS 라이브러리 누락은 별개의 환경 한계다.
 
-앞선 문구·색상 보정 시작 Pro 잔여97% × 사용자 기준10 =970%, 마무리 조회는94% ×10 =940%다. 별도5시간 창은 없었다. 다음 구현 시작 시 현재값을 조회한다. 문서 순서는 AGENTS → PROJECT_CONTEXT → DECISIONS → STATUS → HANDOFF → implementation의 관련 디자인 명세 → P9-23 → Git 상태/차이/log다.
+이번 보정 시작 Pro 잔여92% × 사용자 기준10 =920%다. 별도5시간 창은 없었다. 다음 구현 시작 시 현재값을 조회한다. 문서 순서는 AGENTS → PROJECT_CONTEXT → DECISIONS → STATUS → HANDOFF → implementation의 관련 디자인 명세 → P9-23 → Git 상태/차이/log다.
 
 Preview는 P9-14 소스 `0fbde84` / version `cd6efb0e-2c05-4401-b0bf-692bdf18c5b1`, Production은 P9-04 소스 `37b7254` / version `7aea6843-5288-42da-9bef-bc673e1d9dfe`를 유지한다.
 
